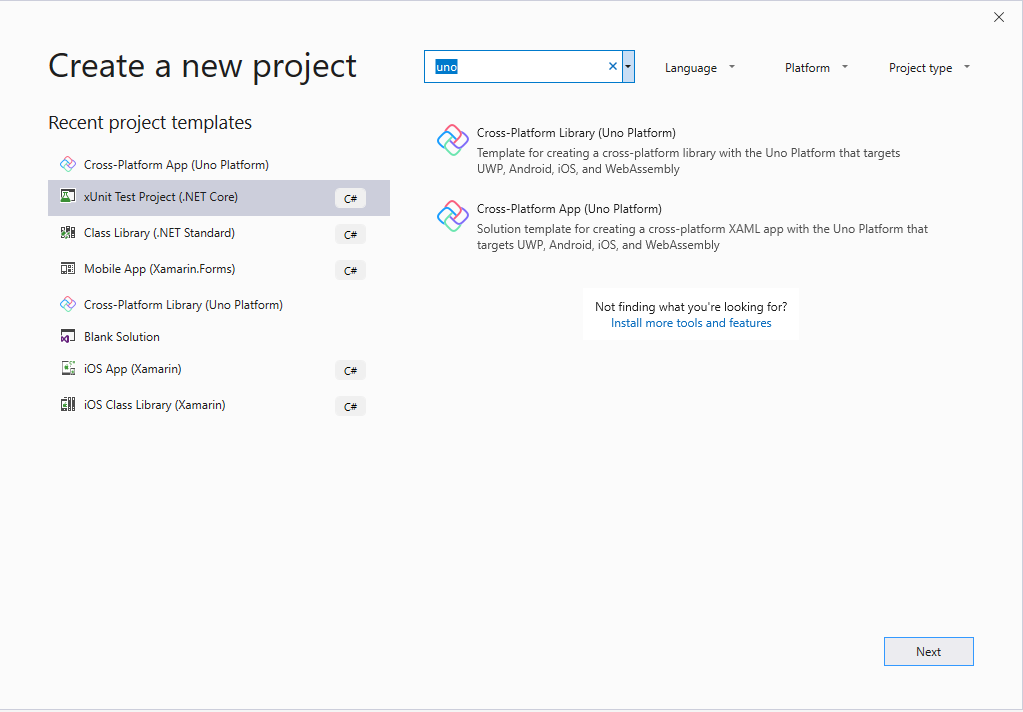
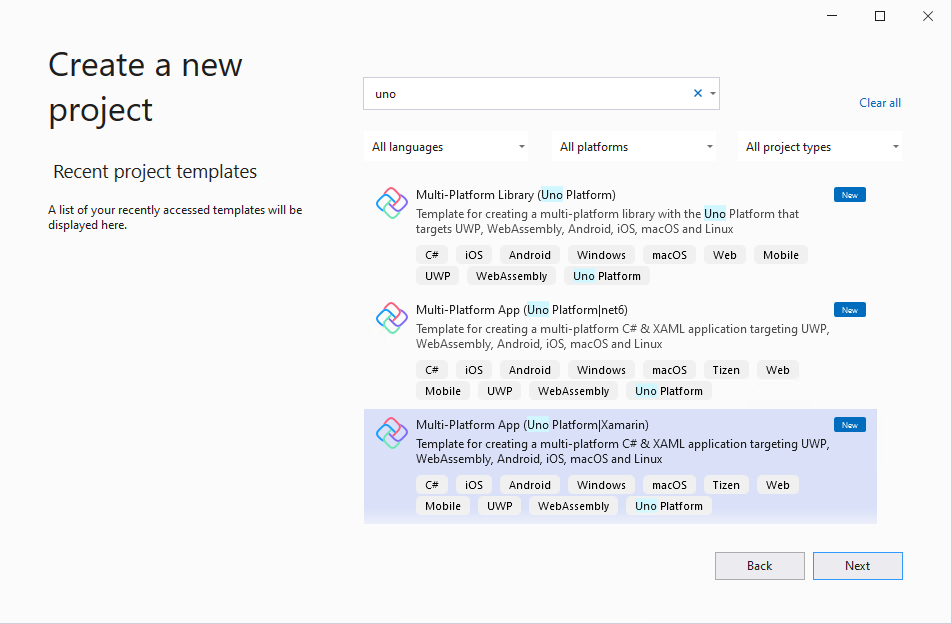
docs: fix for VS 2022

diff --git a/doc/articles/getting-started-tutorial-1.md b/doc/articles/getting-started-tutorial-1.md
@@ -25,7 +25,7 @@ Also, you will learn how to run your applications on all platforms supported by 
 
     ![](Assets/tutorial01/newproject1.PNG)
 
-2. Search for the `Uno` templates, select the `Cross-Platform App (Uno Platform)` then click `Next`.  
+2. Search for the `Uno` templates, select the `Multi-Platform App (Uno Platform|Xamarin)` then click `Next`.  
 
     ![](Assets/tutorial01/newproject2.PNG)
 

diff --git a/doc/articles/getting-started-tutorial-2.md b/doc/articles/getting-started-tutorial-2.md
@@ -24,7 +24,7 @@ The tutorial walks you through creating a cross platform application with Uno Pl
 
     ![](Assets/tutorial01/newproject1.PNG)
 
-1. Search for the `Uno` templates, select the `Cross-Platform App (Uno Platform)` then click `Next`.
+1. Search for the `Uno` templates, select the `Multi-Platform App (Uno Platform|Xamarin)` then click `Next`.
 
     ![](Assets/tutorial01/newproject2.PNG)
 
